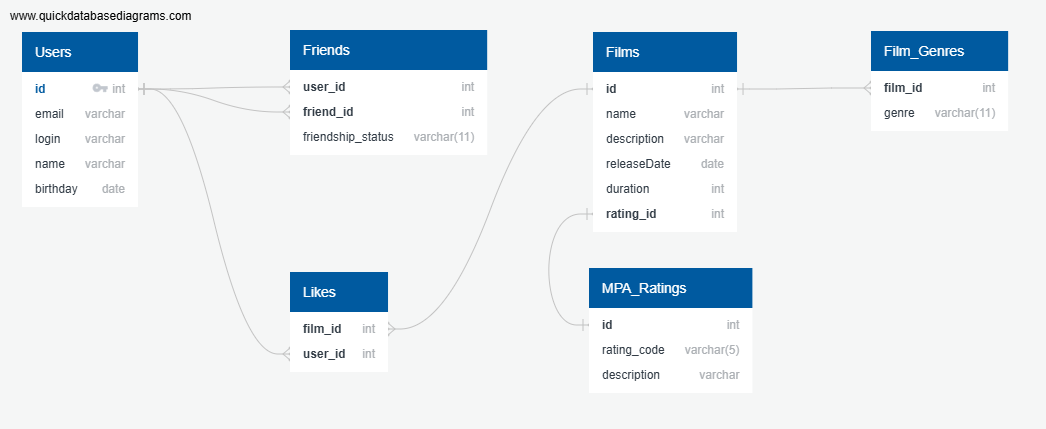
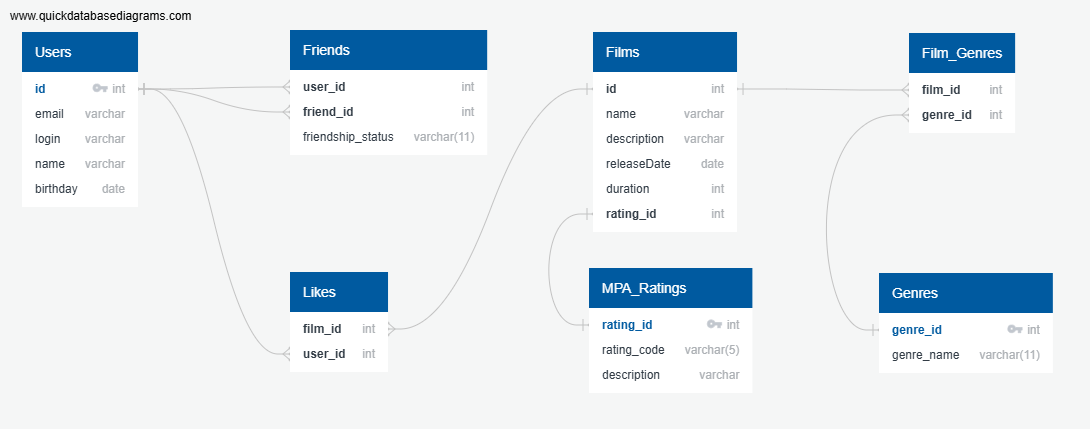
feat: доработал описание модели БД по комментариям ревьюера

diff --git a/README.md b/README.md
@@ -64,11 +64,16 @@ SELECT f.name, COUNT(l.user_id) count_likes
 Является таблицей связи фильмов и жанров. 
 Хранит жанры, которым принадлежат различные фильмы.
 Для одного фильма может быть указано несколько жанров.
-Ключа в данной таблице нет. Одному фильму может быть присвоено несколько жанров.
+Одному фильму может быть присвоено несколько жанров.
 Одному жанру могут соответствовать несколько разных фильмов.
+
+### Таблица **Genres**
+Таблица со списком жанров
 
 ### Таблица **Likes** 
 Хранит лайки поставленные фильму пользователями.
+Одному фильму могут поставить лайки разные пользователи
+Один пользователь может поставить лайки разным фильмам.
 
 ### Таблица **MPA_Ratings**
 Таблица с возможными рейтингами от ассоциации кинокомпаний MPA
